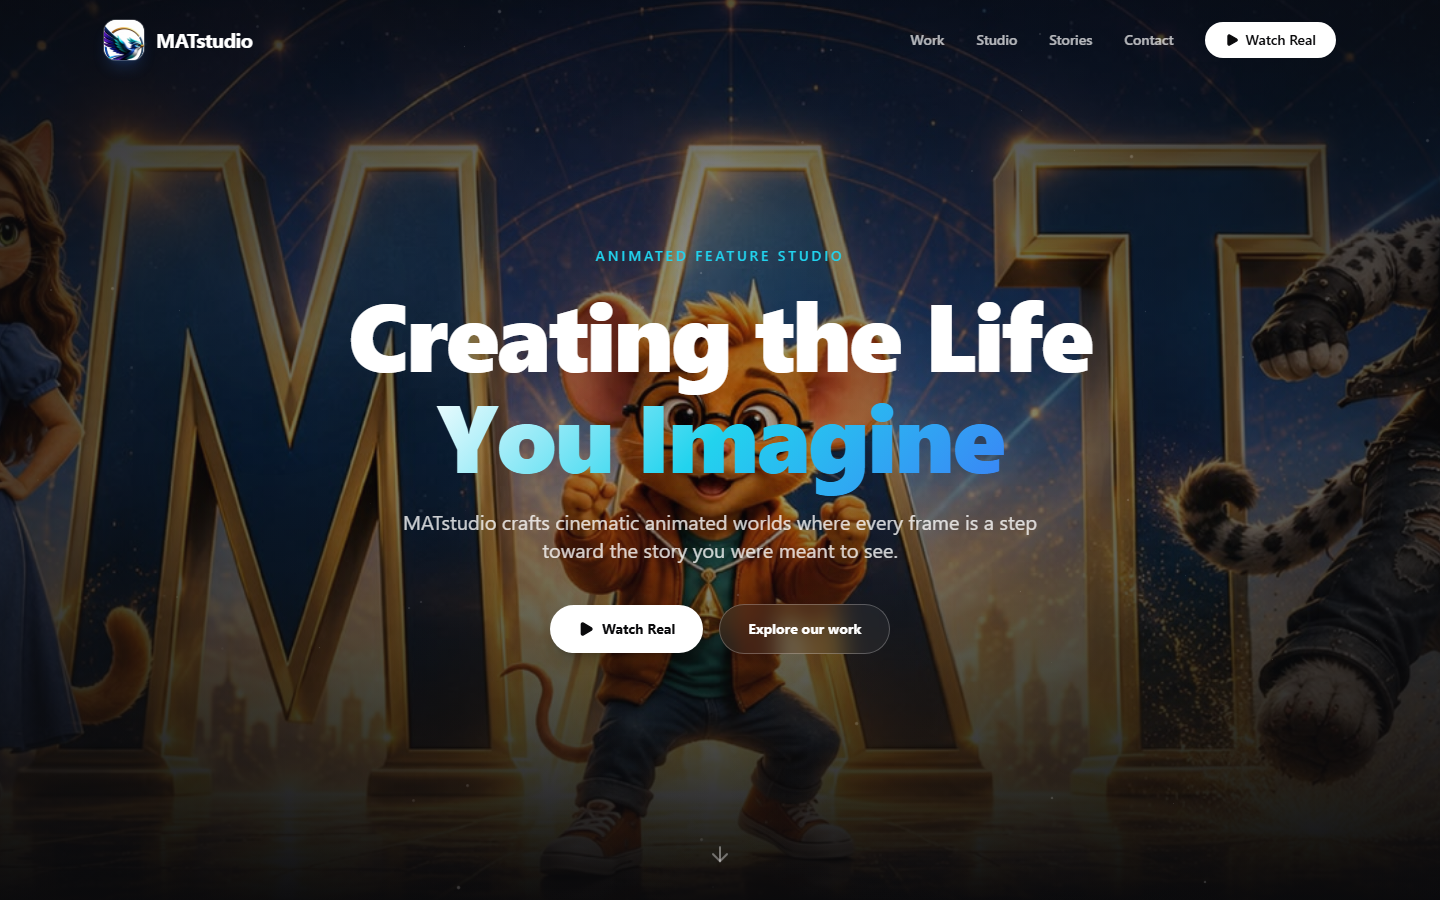
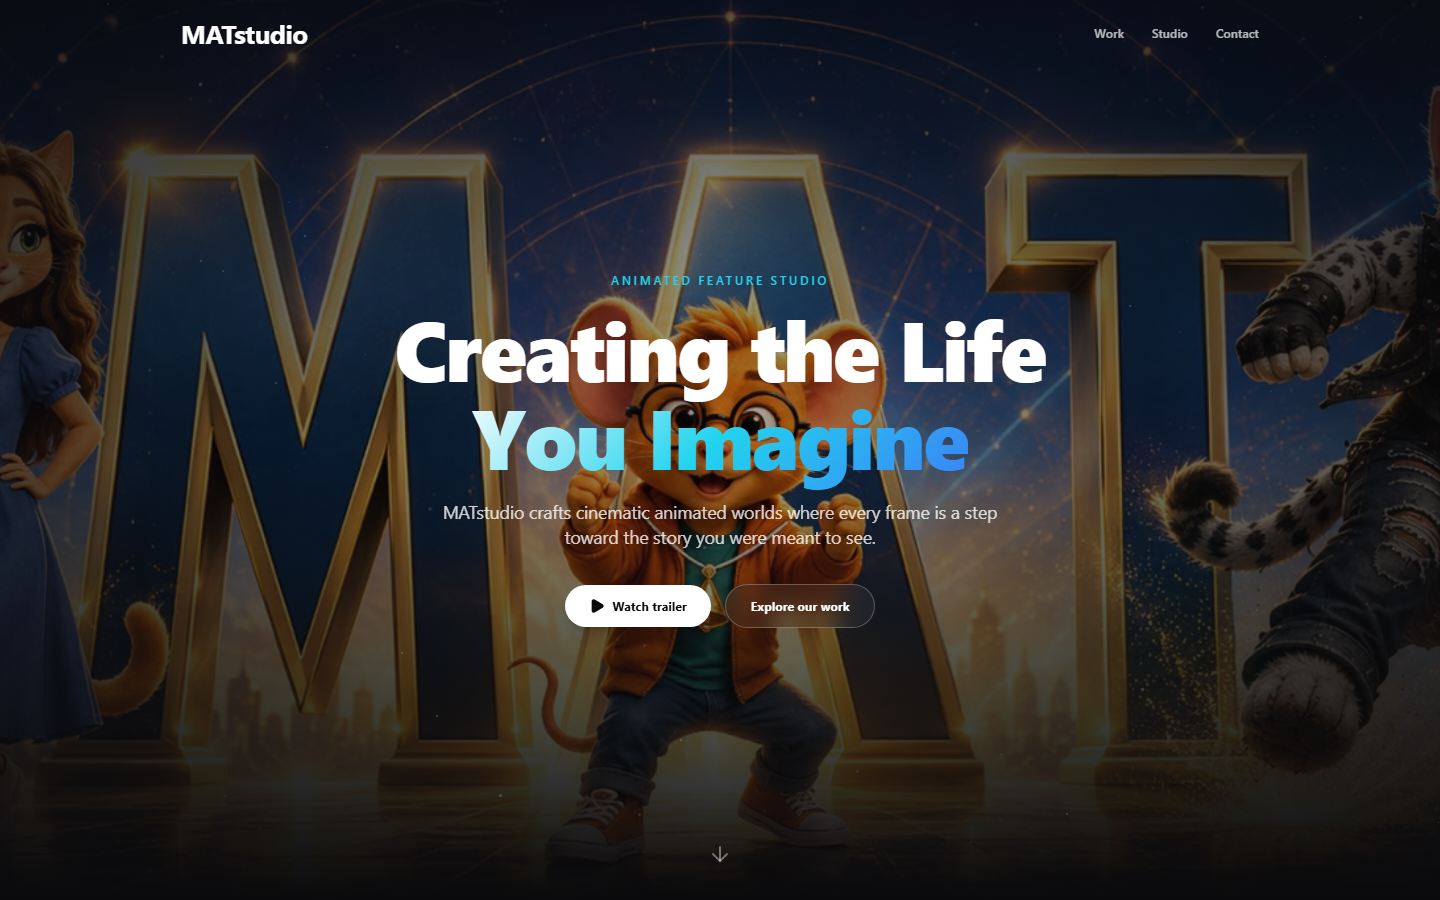
fix(seo): resolve Framer default title/description override; add helper scripts and docs

diff --git a/scripts/create-session.js b/scripts/create-session.js
@@ -1,0 +1,17 @@
+import fs from 'fs';
+import path from 'path';
+import os from 'os';
+
+function getConfigDir() {
+  if (process.env.XDG_CONFIG_HOME) return path.join(process.env.XDG_CONFIG_HOME, 'framer');
+  if (process.platform === 'win32') return path.join(process.env.APPDATA || os.homedir(), 'framer');
+  return path.join(os.homedir(), '.config', 'framer');
+}
+
+const configPath = path.join(getConfigDir(), 'projects.json');
+const config = JSON.parse(fs.readFileSync(configPath, 'utf-8'));
+const projectId = Object.keys(config.projects)[0];
+const project = config.projects[projectId];
+
+const href = `http://127.0.0.1:${process.env.FRAMER_CLI_PORT || 19988}`;
+console.log(JSON.stringify({ projectId, userId: project.userId, href }));

diff --git a/scripts/framer-headend-full.html b/scripts/framer-headend-full.html
@@ -1,0 +1,12 @@
+<script>
+(function() {
+  const t = document.querySelector('title');
+  if (t && t.textContent === 'My Framer Site') t.remove();
+  const m = document.querySelector('meta[name="description"]');
+  if (m && m.content === 'Made with Framer') m.remove();
+  document.title = 'MATstudio | Animation & Story Studio | Tel Aviv';
+  let d = document.querySelector('meta[name="description"]');
+  if (!d) { d = document.createElement('meta'); d.name = 'description'; document.head.appendChild(d); }
+  d.content = 'MATstudio is a Tel Aviv animation and story studio crafting bold characters, cinematic visuals, and design systems for films, series, games, and brands.';
+})();
+</script>

diff --git a/scripts/probe-agent-api.js b/scripts/probe-agent-api.js
@@ -1,0 +1,7 @@
+console.log('framer.agent keys:', Object.keys(framer.agent || {}).sort());
+console.log('framer.agent type:', typeof framer.agent);
+if (framer.agent && typeof framer.agent === 'object') {
+  for (const key of Object.keys(framer.agent)) {
+    console.log(`  ${key}:`, typeof framer.agent[key]);
+  }
+}

diff --git a/scripts/framer-remove-default-head.html b/scripts/framer-remove-default-head.html
@@ -1,0 +1,8 @@
+<script>
+(function() {
+  const t = document.querySelector('title');
+  if (t && t.textContent === 'My Framer Site') t.remove();
+  const m = document.querySelector('meta[name="description"]');
+  if (m && m.content === 'Made with Framer') m.remove();
+})();
+</script>

diff --git a/scripts/read-project-state.js b/scripts/read-project-state.js
@@ -1,0 +1,2 @@
+const root = await framer.getCanvasRoot();
+console.log(JSON.stringify(root, null, 2));
